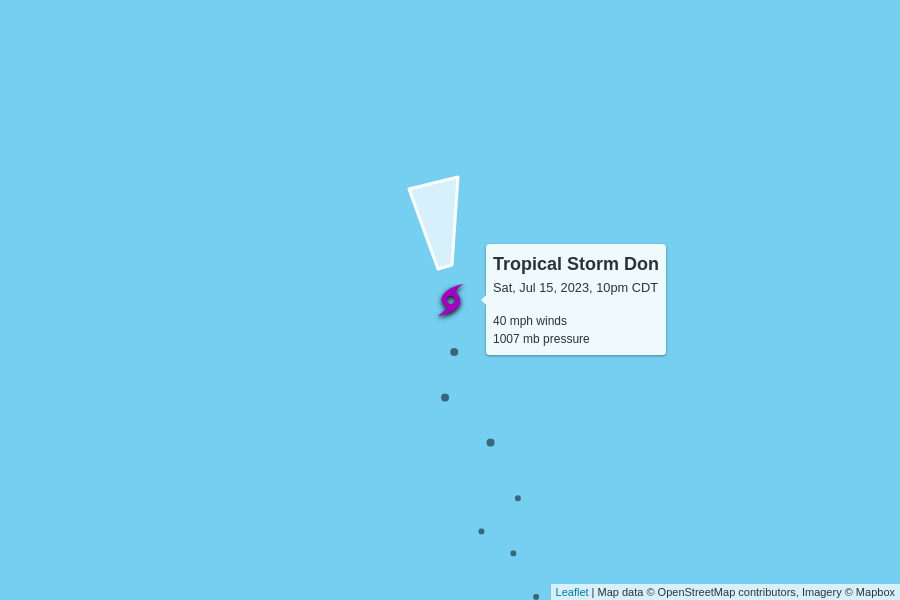
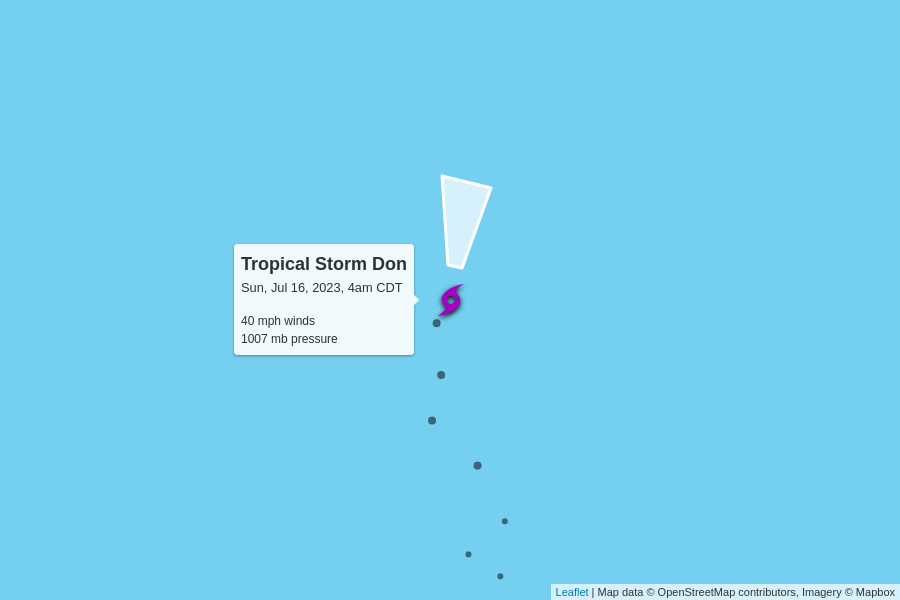
automatic update

diff --git a/docs/index.html b/docs/index.html
@@ -100,7 +100,7 @@
         <td colspan="6" class="storm category-0" >
           <h2>
             Tropical Storm Don
-            <p class="updated">last updated <span data-time>2023-07-16T03:00:00.000Z</span></p>
+            <p class="updated">last updated <span data-time>2023-07-16T09:00:00.000Z</span></p>
           </h2>
         </td>
       </tr>
@@ -118,9 +118,9 @@
         <td>40 mph</td>
         <td>1007 mb</td>
         <td>
-          10 mph to the north
+          7 mph to the north
           <br/>
-          <span style="display: inline-block; font-size: 1.5em; transform: rotate(350deg);">↑</span>
+          <span style="display: inline-block; font-size: 1.5em; transform: rotate(10deg);">↑</span>
         </td>
         <td><a href="https://raw.githubusercontent.com/mgwalker/atlantic-hurricanes/main/data/csv/AL052023.csv">AL052023.csv</a></td>
         <td><a href="https://www.nhc.noaa.gov/archive/2023/DON.shtml?">NHC advisories</a></td>
